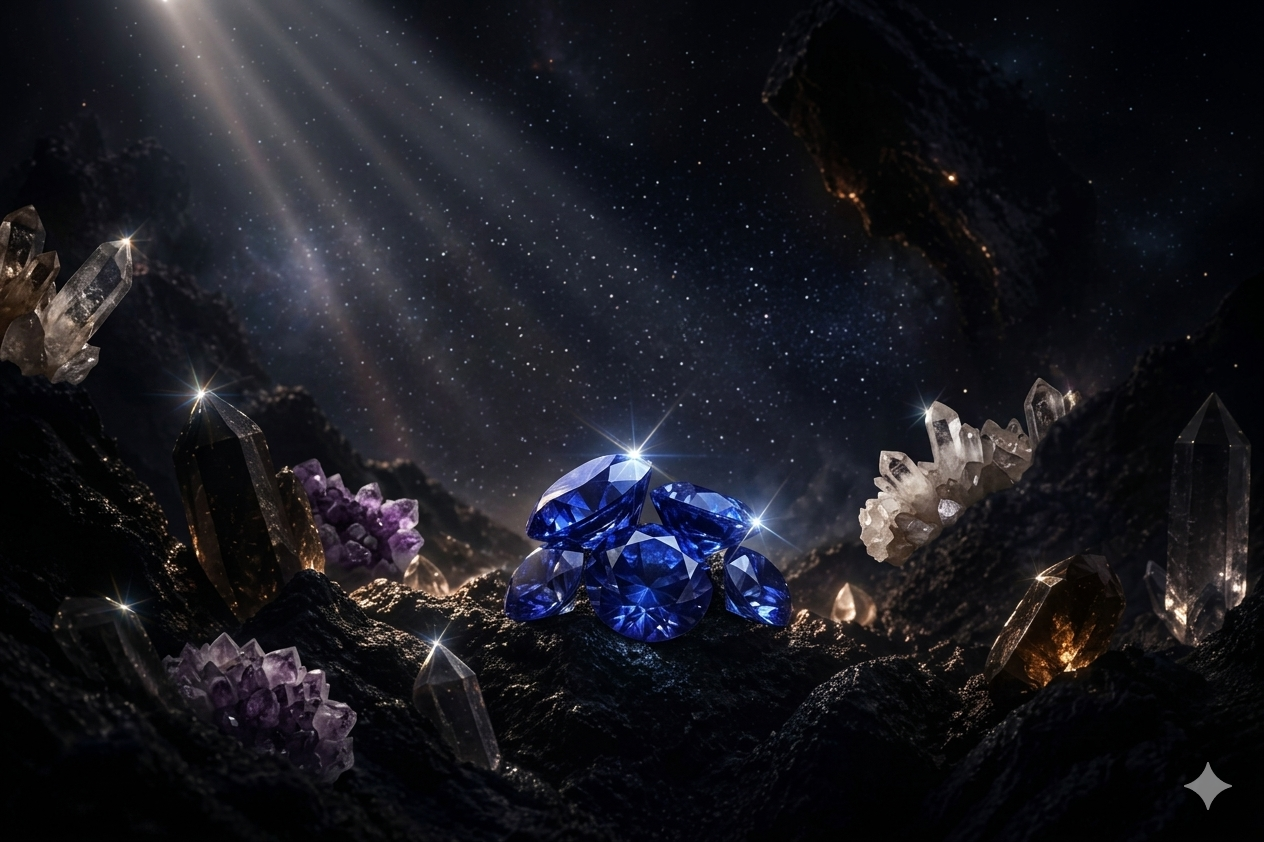
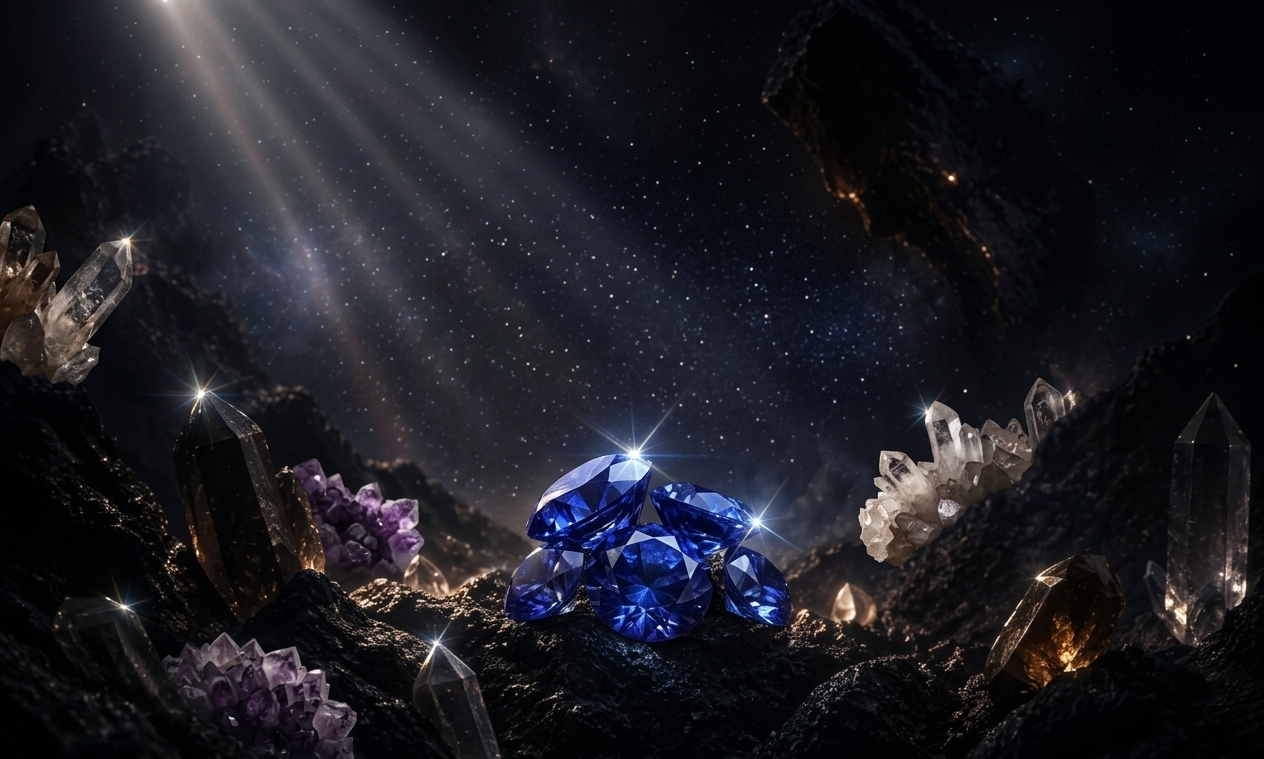
Updates

diff --git a/collection/collection.css b/collection/collection.css
@@ -93,7 +93,7 @@ justify-content: center;
 text-align: center;
 
 background:
-url("/images/home2-bg.png")
+url("/images/gem-og.png")
 center / cover no-repeat;
 }
 
